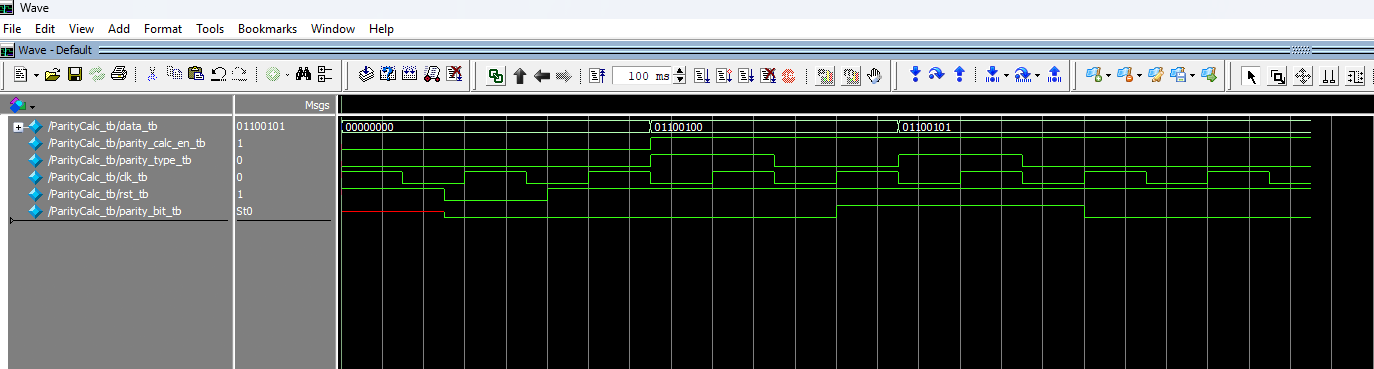
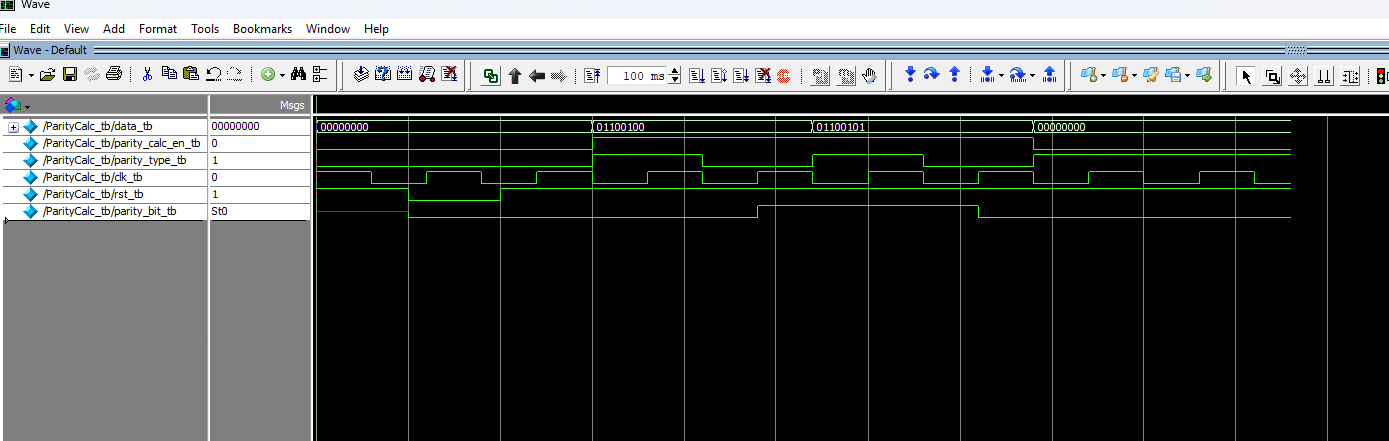
Test UART parity hold behavior and update documentation

Changed region(s): [[0.0, 0.0, 1.0, 1.0], [0.7948, 0.5664, 0.9476, 0.5962]]

diff --git a/UART/README.md b/UART/README.md
@@ -7,7 +7,7 @@ This project is being developed module by module. It is incomplete, and this sna
 - [Serializer](Tx/Serializer.v): captures an 8-bit input and serializes it least significant bit first over eight clock cycles. It provides a serialization enable input, a completion output, and an asynchronous active-low reset.
 - [Parity calculator](Tx/ParityCalc.v): calculates and stores the parity bit for an 8-bit input when enabled, with selectable even or odd parity and an asynchronous active-low reset.
 - [Serializer testbench](Tx/Serializer_tb.v): checks input capture, each serialized bit, and completion for `8'd10`, `8'h7D`, `8'hFF`, and `8'hE2`.
-- [Parity calculator testbench](Tx/ParityCalc_tb.v): checks all four combinations of even/odd set-bit counts and even/odd parity using `8'b01100100` (100) and `8'b01100101` (101).
+- [Parity calculator testbench](Tx/ParityCalc_tb.v): checks all four combinations of even/odd set-bit counts and even/odd parity using `8'b01100100` (100) and `8'b01100101` (101), plus output retention when the calculation enable is low.
 
 ## Parity Calculator
 
@@ -22,7 +22,7 @@ This project is being developed module by module. It is incomplete, and this sna
 
 For example, `8'h7D` contains six set bits, so its parity bit is `0` for even parity and `1` for odd parity. Reset clears the output regardless of the selected parity mode.
 
-The parity calculator, serializer, and their testbenches compile successfully with ModelSim Intel FPGA Edition 2020.1 with zero errors and zero warnings. Functional simulation passes all four parity cases and all four serializer frames, including 32 serialized-bit checks and four completion checks.
+The parity calculator, serializer, and their testbenches compile successfully with ModelSim Intel FPGA Edition 2020.1 with zero errors and zero warnings. Functional simulation passes all five parity checks (four parity calculations and one output retention check while disabled) and all four serializer frames, including 32 serialized-bit checks and four completion checks.
 
 ## Serializer Simulation Waveform
 
@@ -38,7 +38,7 @@ The saved transcript below shows successful input capture, matching output for a
 
 ## Parity Calculator Simulation Waveform
 
-The saved waveform shows the active-low reset clearing `parity_bit_tb`, followed by parity calculations for inputs 100 and 101. Each input is tested with odd parity and then even parity while `parity_calc_en_tb` is high.
+The saved waveform shows the active-low reset clearing `parity_bit_tb`, followed by parity calculations for inputs 100 and 101. Each input is tested with odd parity and then even parity while `parity_calc_en_tb` is high. The final test changes the data to `8'b00000000` and selects odd parity while disabling calculation; the output retains its previous value of `0`, although the new inputs would produce `1` if enabled.
 
 | Test | Data | Set-bit count | Parity mode | Expected parity bit | Result |
 | --- | --- | --- | --- | --- | --- |
@@ -46,20 +46,21 @@ The saved waveform shows the active-low reset clearing `parity_bit_tb`, followed
 | 02 | `8'b01100100` (100) | 3 (odd) | Even (`0`) | `1` | Passed |
 | 03 | `8'b01100101` (101) | 4 (even) | Odd (`1`) | `1` | Passed |
 | 04 | `8'b01100101` (101) | 4 (even) | Even (`0`) | `0` | Passed |
+| 05 | `8'b00000000` (0) | 0 (even) | Odd (`1`), calculation disabled | `0` (retained) | Passed |
 
-![UART parity calculator waveform showing reset and all four even/odd parity combinations](Tx/ParityCalc_waveform.png)
+![UART parity calculator waveform showing reset, all four even/odd parity combinations, and disabled output retention](Tx/ParityCalc_waveform.png)
 
 ## Parity Calculator Test Transcript
 
-The saved transcript shows all four parity checks passing with output values `0`, `1`, `1`, and `0`. The Test 04 description in the saved transcript says "odd parity"; its `parity_type_tb = 0` stimulus and expected output test even parity, as listed above.
+The saved transcript shows all five checks passing: the four parity calculations produce `0`, `1`, `1`, and `0`, and Test 05 confirms that the output holds `0` when `parity_calc_en_tb` is low. The Test 04 description in the saved transcript says "odd parity"; its `parity_type_tb = 0` stimulus and expected output test even parity, as listed above.
 
-![UART parity calculator test transcript showing all four parity checks passing](Tx/ParityCalc_test_transcript.png)
+![UART parity calculator test transcript showing all five parity and hold checks passing](Tx/ParityCalc_transcript.png)
 
-The testbench applies reset during initialization. Dedicated assertions for reset behavior and output retention while disabled remain to be added.
+The testbench applies reset during initialization. Output retention of `0` while disabled is now checked explicitly. Dedicated assertions for reset behavior and retention of `1` remain to be added.
 
 ## Remaining Work
 
-- Extend the parity calculator testbench with explicit checks for enable/hold behavior and asynchronous reset, including reset after a nonzero parity result.
+- Extend the parity calculator testbench with checks for retaining a parity value of `1` while disabled and for asynchronous reset, including reset after a nonzero parity result.
 - Complete the UART transmitter, including baud timing, frame control, and integration of the serializer and parity calculator.
 - Expand testbenches and verify the UART behavior as each component is completed.
 
